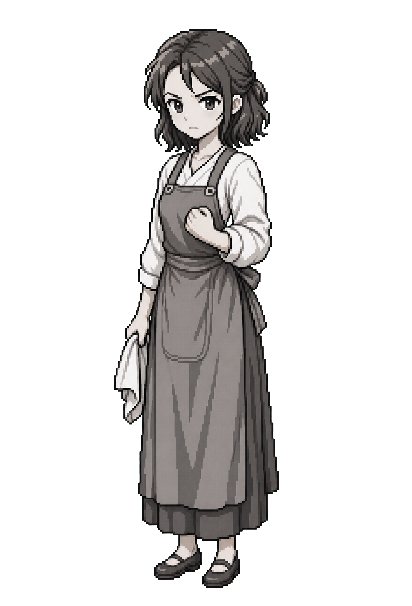
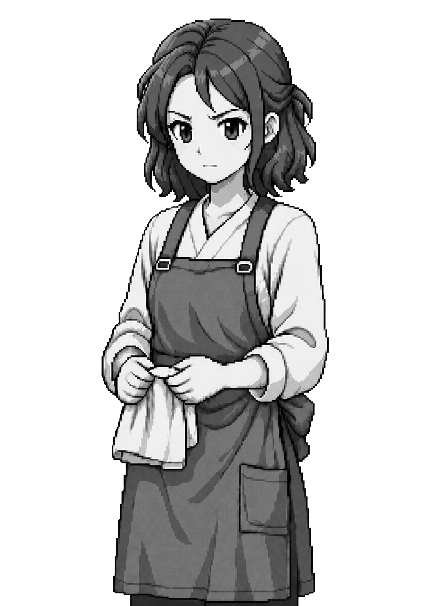
fix: normalize partial settings and guard API setup modal
- getSettings() now merges stored partial settings with defaults, preventing
crashes when the `api` object or other fields are missing after DB migrations.
- ApiKeySetup uses optional chaining on `settings.api` as an extra safeguard.

diff --git a/src/sillytavern/database.ts b/src/sillytavern/database.ts
@@ -134,8 +134,35 @@ function getDefaultSettings(): AppSettings {
   };
 }
 
+function normalizeSettings(partial: AppSettings | Partial<AppSettings> | undefined): AppSettings {
+  const defaults = getDefaultSettings();
+  if (!partial) return defaults;
+  return {
+    ...defaults,
+    ...partial,
+    api: {
+      ...defaults.api,
+      ...(partial.api || {}),
+      secondary: {
+        ...defaults.api.secondary,
+        ...(partial.api?.secondary || {}),
+      },
+    },
+    activeLorebookIds: Array.isArray(partial.activeLorebookIds)
+      ? partial.activeLorebookIds
+      : defaults.activeLorebookIds,
+    customTags: Array.isArray(partial.customTags)
+      ? partial.customTags
+      : defaults.customTags,
+    opaqueTags: Array.isArray(partial.opaqueTags)
+      ? partial.opaqueTags
+      : defaults.opaqueTags,
+  };
+}
+
 export async function getSettings(): Promise<AppSettings | undefined> {
-  return (await db.settings.toArray())[0];
+  const stored = (await db.settings.toArray())[0];
+  return normalizeSettings(stored);
 }
 
 export async function saveSettings(settings: AppSettings): Promise<void> {

diff --git a/src/engine/opening-parse-test.test.ts b/src/engine/opening-parse-test.test.ts
@@ -36,6 +36,7 @@ describe('opening storyline parse', () => {
   it('shows Fumi as a memory before Touko and exercises the opening animations', () => {
     const scene = parseOpeningStoryline();
     const fumiFirstLine = scene.lines.findIndex((line) => line.character === 'fumi-normal.png');
+    const imaginedFumiLines = scene.lines.filter((line) => line.speaker === '文穗');
     const toukoFirstLine = scene.lines.findIndex((line) => line.speaker === 'touko');
     const animationIds = scene.lines
       .map((line) => line.animation)
@@ -44,8 +45,12 @@ describe('opening storyline parse', () => {
     expect(fumiFirstLine).toBeGreaterThan(-1);
     expect(fumiFirstLine).toBeLessThan(toukoFirstLine);
     expect(animationIds).toContain('idle');
-    expect(animationIds).toContain('fold-cloth');
-    expect(animationIds).toContain('reset-cuff');
+    expect(imaginedFumiLines.map((line) => line.emotion)).toEqual([
+      'happy',
+      'angry',
+      'calm',
+      'sad',
+    ]);
     expect(scene.lines.some((line) => line.text.includes('桌边没有人'))).toBe(true);
   });
 });

diff --git a/src/components/system/ApiKeySetup.tsx b/src/components/system/ApiKeySetup.tsx
@@ -16,13 +16,13 @@ export function ApiKeySetup() {
   const introPlayed = useGameStore(state => state.ui.introPlayed);
   const actions = useGameStore(state => state.actions);
 
-  const [baseUrl, setBaseUrl] = useState(settings?.api.baseUrl || PRESET_PROVIDERS[0].baseUrl);
+  const [baseUrl, setBaseUrl] = useState(settings?.api?.baseUrl || PRESET_PROVIDERS[0].baseUrl);
   const [apiKey, setApiKey] = useState('');
-  const [model, setModel] = useState(settings?.api.model || PRESET_PROVIDERS[0].model);
+  const [model, setModel] = useState(settings?.api?.model || PRESET_PROVIDERS[0].model);
   const [dismissed, setDismissed] = useState(false);
 
   if (!introPlayed || !settings || dismissed) return null;
-  if (settings.api.apiKey) return null;
+  if (settings.api?.apiKey) return null;
 
   const handlePreset = (preset: typeof PRESET_PROVIDERS[0]) => {
     setBaseUrl(preset.baseUrl);

diff --git a/src/engine/character-animation.test.ts b/src/engine/character-animation.test.ts
@@ -38,4 +38,19 @@ describe('character animation timing', () => {
     });
     expect(errors).toContain('Character canvas must be 430x606.');
   });
+
+  it('rejects incomplete direct frame sequences', () => {
+    const errors = validateCharacterAnimationManifest({
+      character: 'fumi',
+      frameWidth: 430,
+      frameHeight: 606,
+      clips: {
+        'talk.happy': {
+          ...loopClip,
+          sources: ['00.png', '01.png'],
+        },
+      },
+    });
+    expect(errors).toContain('talk.happy: sources must contain one file per frame.');
+  });
 });

diff --git a/src/data/backgroundAssets.test.ts b/src/data/backgroundAssets.test.ts
@@ -26,7 +26,7 @@ describe('backgroundAssets time variants', () => {
     expect(getBackgroundById('ending-f-1')?.file).toBe('ending-f-1.png');
     expect(getBackgroundById('ending-loop')?.file).toBe('ending-loop.png');
     expect(getBackgroundById('ending-stay')?.file).toBe('ending-stay.png');
-    expect(getBackgroundById('ending-true')?.file).toBe('ending-true.png');
+    expect(getBackgroundById('ending-true')?.file).toBe('ending-true-retro-v5.png');
   });
 
   it('keeps ending-only CGs out of the AI scene catalog', () => {

diff --git a/src/data/backgroundAssets.ts b/src/data/backgroundAssets.ts
@@ -310,7 +310,7 @@ export const backgroundAssets: BackgroundAsset[] = [
   },
   {
     id: 'ending-true',
-    file: 'ending-true.png',
+    file: 'ending-true-retro-v5.png',
     displayName: '结局：九点零一分',
     description: '雨停后文穗走出家门，时间第一次前进到九点零一分。',
     usage: 'TRUE 结局专用',
